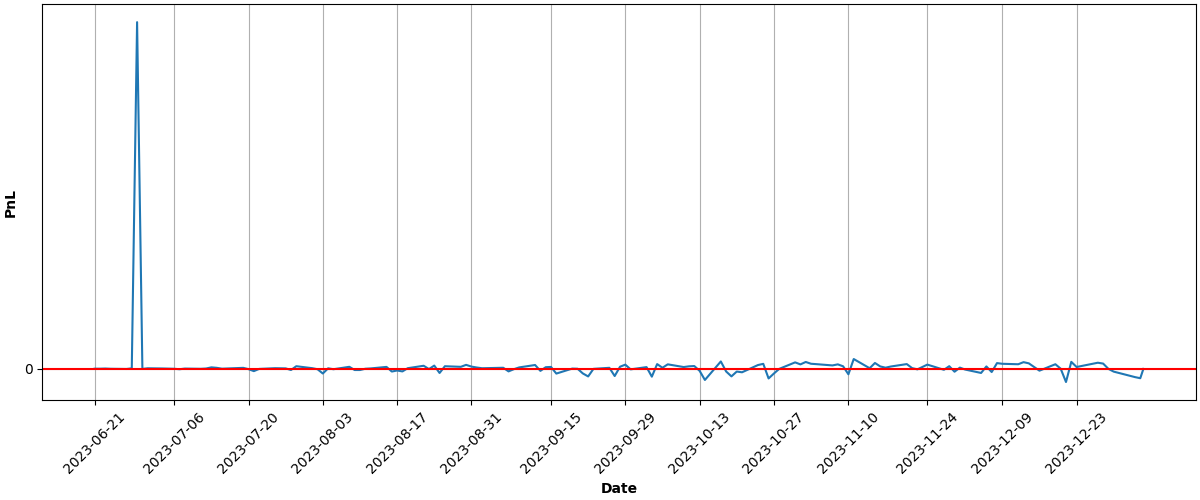
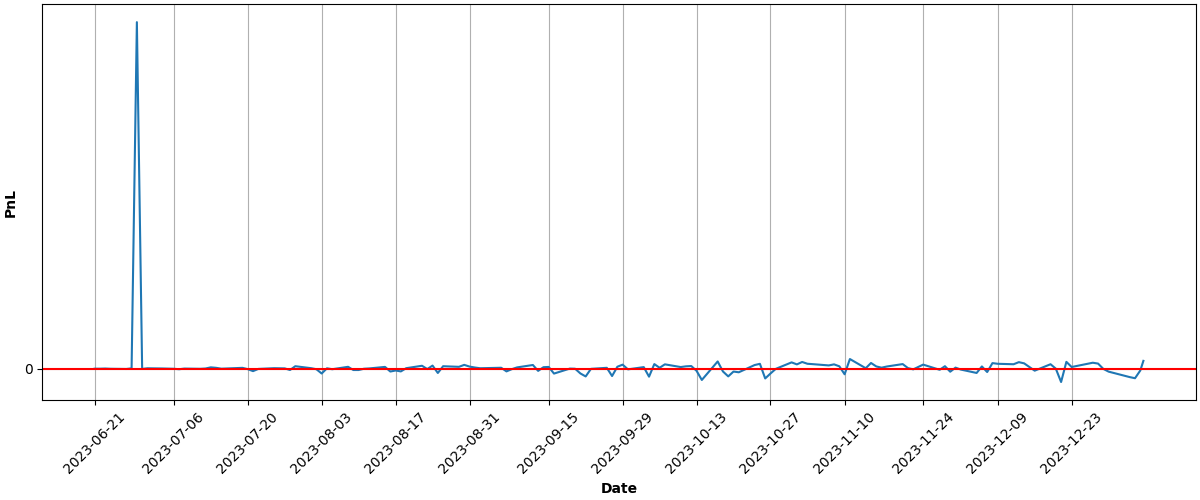
Automated Buy At Fri Jan  5 15:04:35 UTC 2024 Run ID 7423383177

diff --git a/README.md b/README.md
@@ -68,9 +68,9 @@ Results
 
 | Asset | Average Price | Current Price | ROI | 📈 |
 | --- | --- | --- | --- | --- |
-| FNGU | $180.363750951 | $207.95 | 15.29% | &#128994;&#128515; |
-| SVIX | $29.810575439 | $36.534 | 22.55% | &#128994;&#128515; |
-| **Total** |  |  | **19.24%** | &#128994;&#128518; |
+| FNGU | $180.546486693 | $211.0142 | 16.88% | &#128994;&#128515; |
+| SVIX | $29.927108621 | $37.66 | 25.84% | &#128994;&#128515; |
+| **Total** |  |  | **21.77%** | &#128994;&#128518; |
 
 ### PnL over time (calculations may not be accurate):
 
@@ -81,6 +81,6 @@ Results
 ---
 
 
-Updated at 2024-01-04 15:04:49
+Updated at 2024-01-05 15:04:49
 
 
